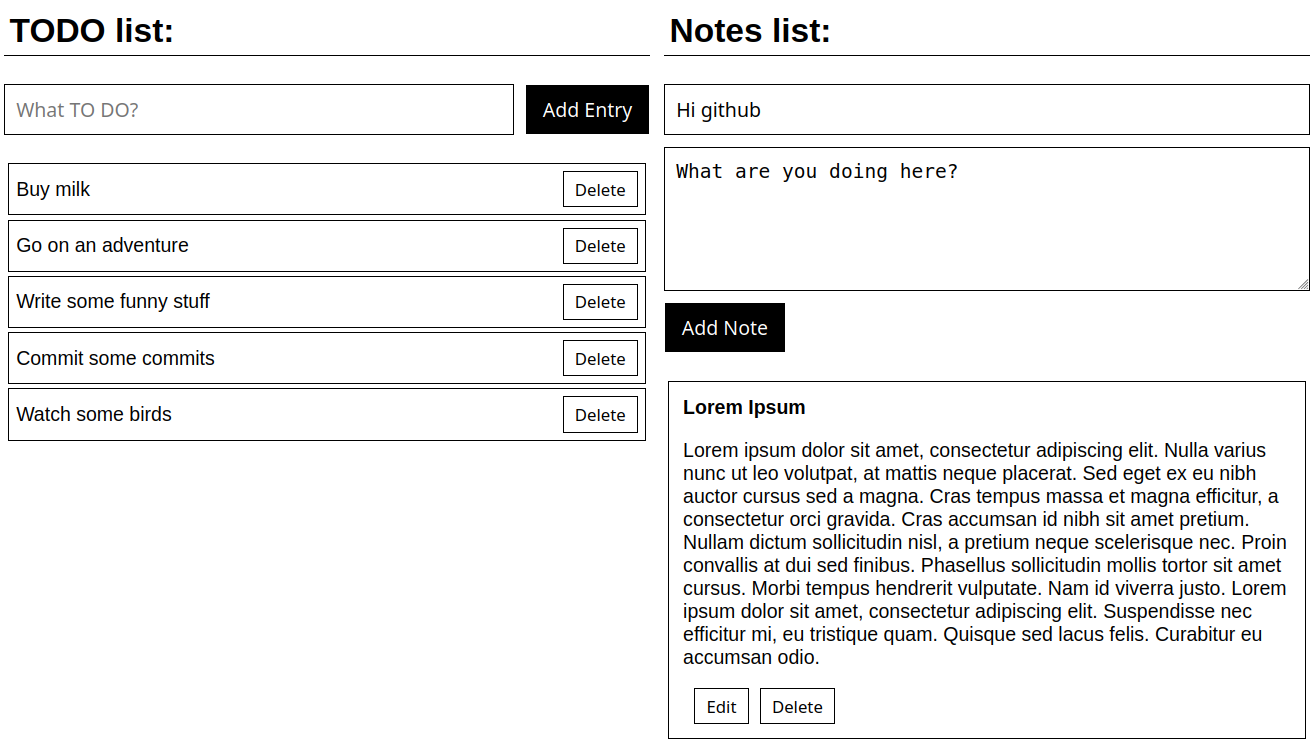
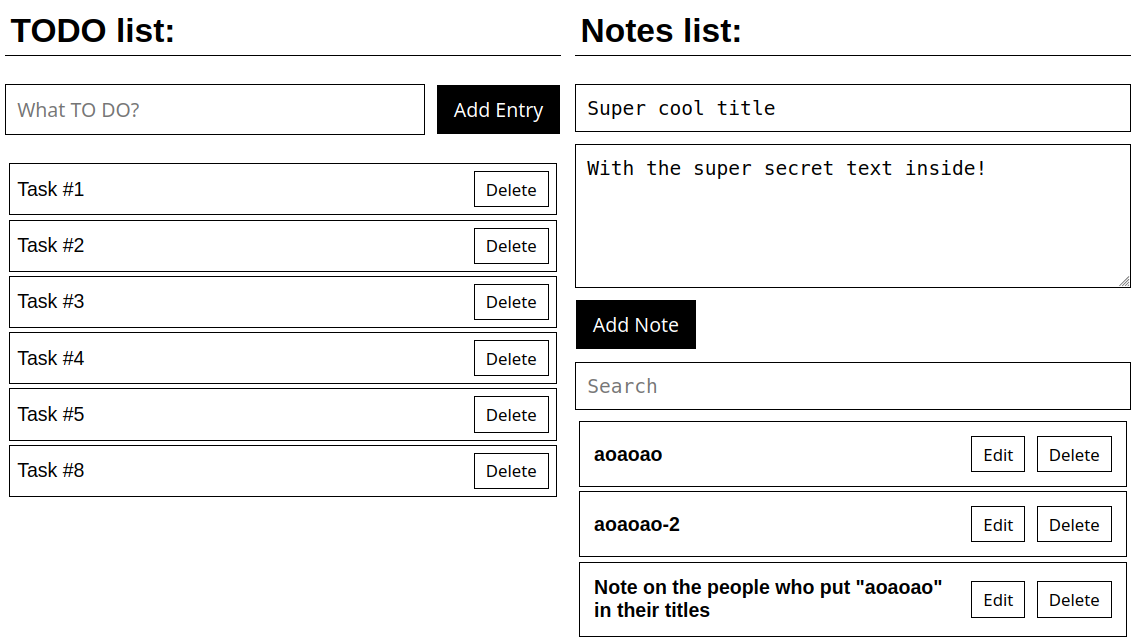
Search implemented. Really tried. By smashing keyboard left and right got maps and filters right. Also tried to add states. Maybe will use state machines on the next project (if I will ever touch React again)

Changed region(s): [[0.0, 0.0, 1.0, 0.9938], [0.0, 0.7143, 0.0925, 0.7453], [0.9868, 0.4348, 1.0, 0.4658]]

diff --git a/src/apps/notes/NotesApp.js b/src/apps/notes/NotesApp.js
@@ -9,13 +9,21 @@ const noteObject = {
 	text  : ""
 };
 
+const STATES = {
+	WRITE: "write",
+	EDIT:  "edit"
+}
+
 function NotesApp() {
-	// Note
-	const [note, setNote] = useState(noteObject);
 	// Global
+	const [state, setState] = useState(STATES.WRITE);
 	const [notes, setNotes] = useState([]);
 	const [editNoteIndex, setEditNoteIndex] = useState(null);
+	const [searchQuery, setSearchQuery] = useState("");
+	// Note
+	const [note, setNote] = useState(noteObject);
 
+	// Write
 	function handleTitleChange(e) {
 		setNote({ ...note, title: e.target.value });
 	}
@@ -26,21 +34,57 @@ function NotesApp() {
 
 	function handleSubmit(e) {
 		e.preventDefault();
-		if (!note.title.trim() && !note.text.trim()) return;
 
-		if (editNoteIndex !== null) {
-			const updatedNotes = notes.map((n, i) =>
-				i === editNoteIndex ? { ...note } : n
-			);
-			setNotes(updatedNotes);
-			setEditNoteIndex(null);
-		} else {
-			setNotes([...notes, { ...note }]);
+		switch(state) {
+			case STATES.WRITE:
+				if (!note.title.trim() && !note.text.trim())
+					return;
+				if (editNoteIndex !== null) {
+					const updatedNotes = notes.map(
+						(n, i) => i === editNoteIndex ? { ...note } : n
+					);
+					setNotes(updatedNotes);
+					setEditNoteIndex(null);
+				} else {
+					setNotes([...notes, { ...note }]);
+				}
+				setNote(noteObject);
+				break;
+
+			case STATES.EDIT:
+				setNotes(notes.map((n, i) => i === editNoteIndex ? { ...note } : n));
+				setEditNoteIndex(null);
+				setNote(noteObject);
+				setState(STATES.WRITE);
+				break;
+
+			default:
+				console.log("How did I get there?");
 		}
-		setNote(noteObject);
 	}
 
+	// Edit
+	function handleEditCancel() {
+		setEditNoteIndex(null);
+		setNote(noteObject);
+		setState(STATES.WRITE);
+	}
+
+	// Search
+	function handleSearch(value) {
+		setSearchQuery(value)
+	}
+
+	const filteredNotes = notes
+		.map((n, index) => ({ ...n, index}))
+		.filter((n) =>
+			n.title.toLowerCase().includes(searchQuery.toLowerCase()) ||
+			n.text.toLowerCase().includes(searchQuery.toLowerCase())
+	);
+
+	// Notes list
 	function handleEdit(index) {
+		setState(STATES.EDIT);
 		setNote({ ...notes[index] });
 		setEditNoteIndex(index);
 	}
@@ -57,40 +101,44 @@ function NotesApp() {
 		}
 	}
 
-	function handleEditCancel() {
-		setEditNoteIndex(null);
-		setNote(initialNote);
-	}
-
-	function handleSearch() {
-		
-	}
 
 	return (
 		<div className="notes-app">
 			<h1>Notes list:</h1>
-			<form onSubmit={handleSubmit} className="notes-form">
-				<input type="text" placeholder="Title"
-				       value={note.title}onChange={handleTitleChange}/>
-				<textarea rows="5" columns="40" placeholder="Text"
-				          value={note.text} onChange={handleTextChange}>
-				</textarea>
-				<button type="submit">
-					{ editNoteIndex !== null ? "Save Note" : "Add Note" }
-				</button>
-				{ editNoteIndex !== null && (
-					<button type="button" onClick={handleEditCancel}>
-						Cancel
-					</button>
-				)}
-			</form>
+
+			{ // Textareas
+			}
+			<textarea className="notes-form no-resize" rows="1" columns="40" placeholder="Title"
+             value={note.title} onChange={handleTitleChange}/>
+			<textarea className="notes-form" rows="5" columns="40" placeholder="Text"
+             value={note.text} onChange={handleTextChange}/>
+
+			{ // Buttons
+			}
+			<div className="button-row">
+				{ state === STATES.WRITE ? ( <>
+				<button type="button" onClick={handleSubmit}>Add Note</button>
+				</> ) : null }
+				{ state === STATES.EDIT ? ( <>
+				<button type="button" onClick={handleSubmit}>Save Changes</button>
+				<button type="button" onClick={handleEditCancel}>Cancel</button>
+				</> ) : null }
+			</div>
+
+			{ // Search field
+			}
+			<textarea className="notes-form no-resize" rows="1" columns="40"
+                placeholder="Search"
+                value={searchQuery} onChange={(e) => handleSearch(e.target.value)}/>
+
+			{ // Notes list
+			}
 			<ul className="notes-list">
-				{notes.map((n, index) => (
-					<li key={index}>
+				{filteredNotes.map((n) => (
+					<li key={n.index}>
 						<strong>{n.title}</strong>
-						<p>{n.text}</p>
-						<button onClick={() => handleEdit(index)}>Edit</button>
-						<button onClick={() => handleRemove(index)}>Delete</button>
+						<button onClick={() => handleEdit(n.index)}>Edit</button>
+						<button onClick={() => handleRemove(n.index)}>Delete</button>
 					</li>
 				))}
 			</ul>

diff --git a/src/apps/notes/NotesApp.css b/src/apps/notes/NotesApp.css
@@ -14,11 +14,7 @@
 	display: flex;
 	flex-direction: column;
 	gap: 8px;
-	margin-bottom: 20px;
-}
-
-.notes-form input,
-.notes-form textarea {
+	margin-bottom: 8px;
 	width: 100%;
 	padding: 8px;
 	font-size: 14px;
@@ -27,7 +23,15 @@
 	resize: vertical;
 }
 
-.notes-form button {
+.notes-form.no-resize {
+	resize: none;
+}
+
+.button-row {
+	margin-bottom: 8px;
+}
+
+.button-row button {
 	align-self: flex-start;
 	padding: 8px 12px;
 	font-size: 14px;
@@ -46,6 +50,8 @@
 }
 
 .notes-list li {
+	display: flex;
+	align-items: center;
 	margin: 3px;
 	padding: 10px;
 	font-size: 14px;
@@ -53,15 +59,10 @@
 }
 
 .notes-list strong {
-	display: block;
+	justify-content: center;
+	flex: 1;
 	overflow: hidden;
 	text-overflow: ellipsis;
-}
-
-.notes-list p {
-	overflow: break-word;
-	word-wrap: break-word;
-	white-space: normal;
 }
 
 .notes-list button {
